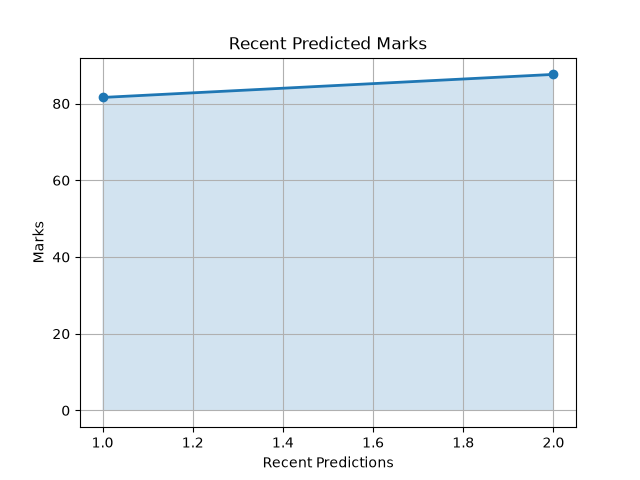
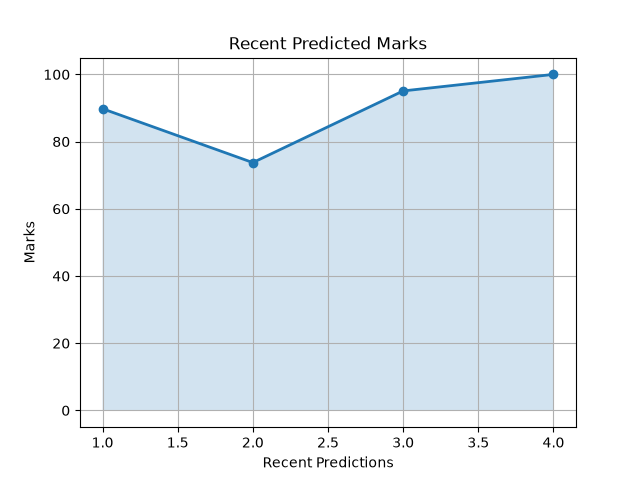
Add ID column and fix prediction history saving

diff --git a/templates/index.html b/templates/index.html
@@ -138,6 +138,7 @@
     <table class="history-table">
 
         <tr>
+            <th>ID</th>
             <th>Time</th>
             <th>Study Hours</th>
             <th>Attendance</th>
@@ -149,6 +150,7 @@
         {% for row in history %}
 
         <tr>
+            <td>{{ row.ID }}</td>
             <td>{{ row.Timestamp }}</td>
             <td>{{ row.StudyHours }}</td>
             <td>{{ row.Attendance }}</td>

diff --git a/app.py b/app.py
@@ -34,6 +34,9 @@ def home():
     performance = None
     error = None
     history = []
+    total=request.args.get("page",1,type=int)
+    per_page=5
+    total_pages=1
 
     search = request.args.get("search", "")
     page = request.args.get("page", 1, type=int)
@@ -98,7 +101,18 @@ def home():
             current_time = datetime.now().strftime("%d-%m-%Y %H:%M:%S")        
 
             # Save prediction
+
+            if os.path.exists("prediction_history.csv"):
+                old_history = pd.read_csv("prediction_history.csv")
+                new_id = len(old_history) + 1
+                header = False
+            else:
+                new_id = 1
+                header = True
+
+
             new_prediction = pd.DataFrame({
+                "ID":[new_id],
                 "Timestamp": [current_time],
                 "StudyHours": [study_hours],
                 "Attendance": [attendance],
@@ -107,18 +121,13 @@ def home():
                 "Performance": [performance],
             })
 
-            if os.path.exists("prediction_history.csv"):
-                new_prediction.to_csv(
-                    "prediction_history.csv",
-                    mode="a",
-                    header=False,
-                    index=False
-                )
-            else:
-                new_prediction.to_csv(
-                    "prediction_history.csv",
-                    index=False
-                )
+            new_prediction.to_csv(
+                "prediction_history.csv",
+                mode="a",
+                header=header,
+                index=False
+            )
+
             flash("Prediction saved successfully!", "success")    
 
     # Read history and generate dashboard
@@ -137,12 +146,13 @@ def home():
         highest_marks = round(history_df["PredictedMarks"].max(), 2)
         average_marks = round(history_df["PredictedMarks"].mean(), 2)
 
+
         
         start = (page - 1) * per_page
         end = start + per_page
 
         recent = history_df.iloc[start:end]
-        total_pages = math.ceil(len(history_df) / per_page)
+        total_pages = max(1, math.ceil(len(history_df) / per_page))
 
         # Generate chart
         plt.plot(
@@ -206,7 +216,7 @@ def clear_history():
         study_hours="",
         attendance="",
         assignments="",
-        page=page,
+        page=1,
         total_pages=total_pages
     )
 